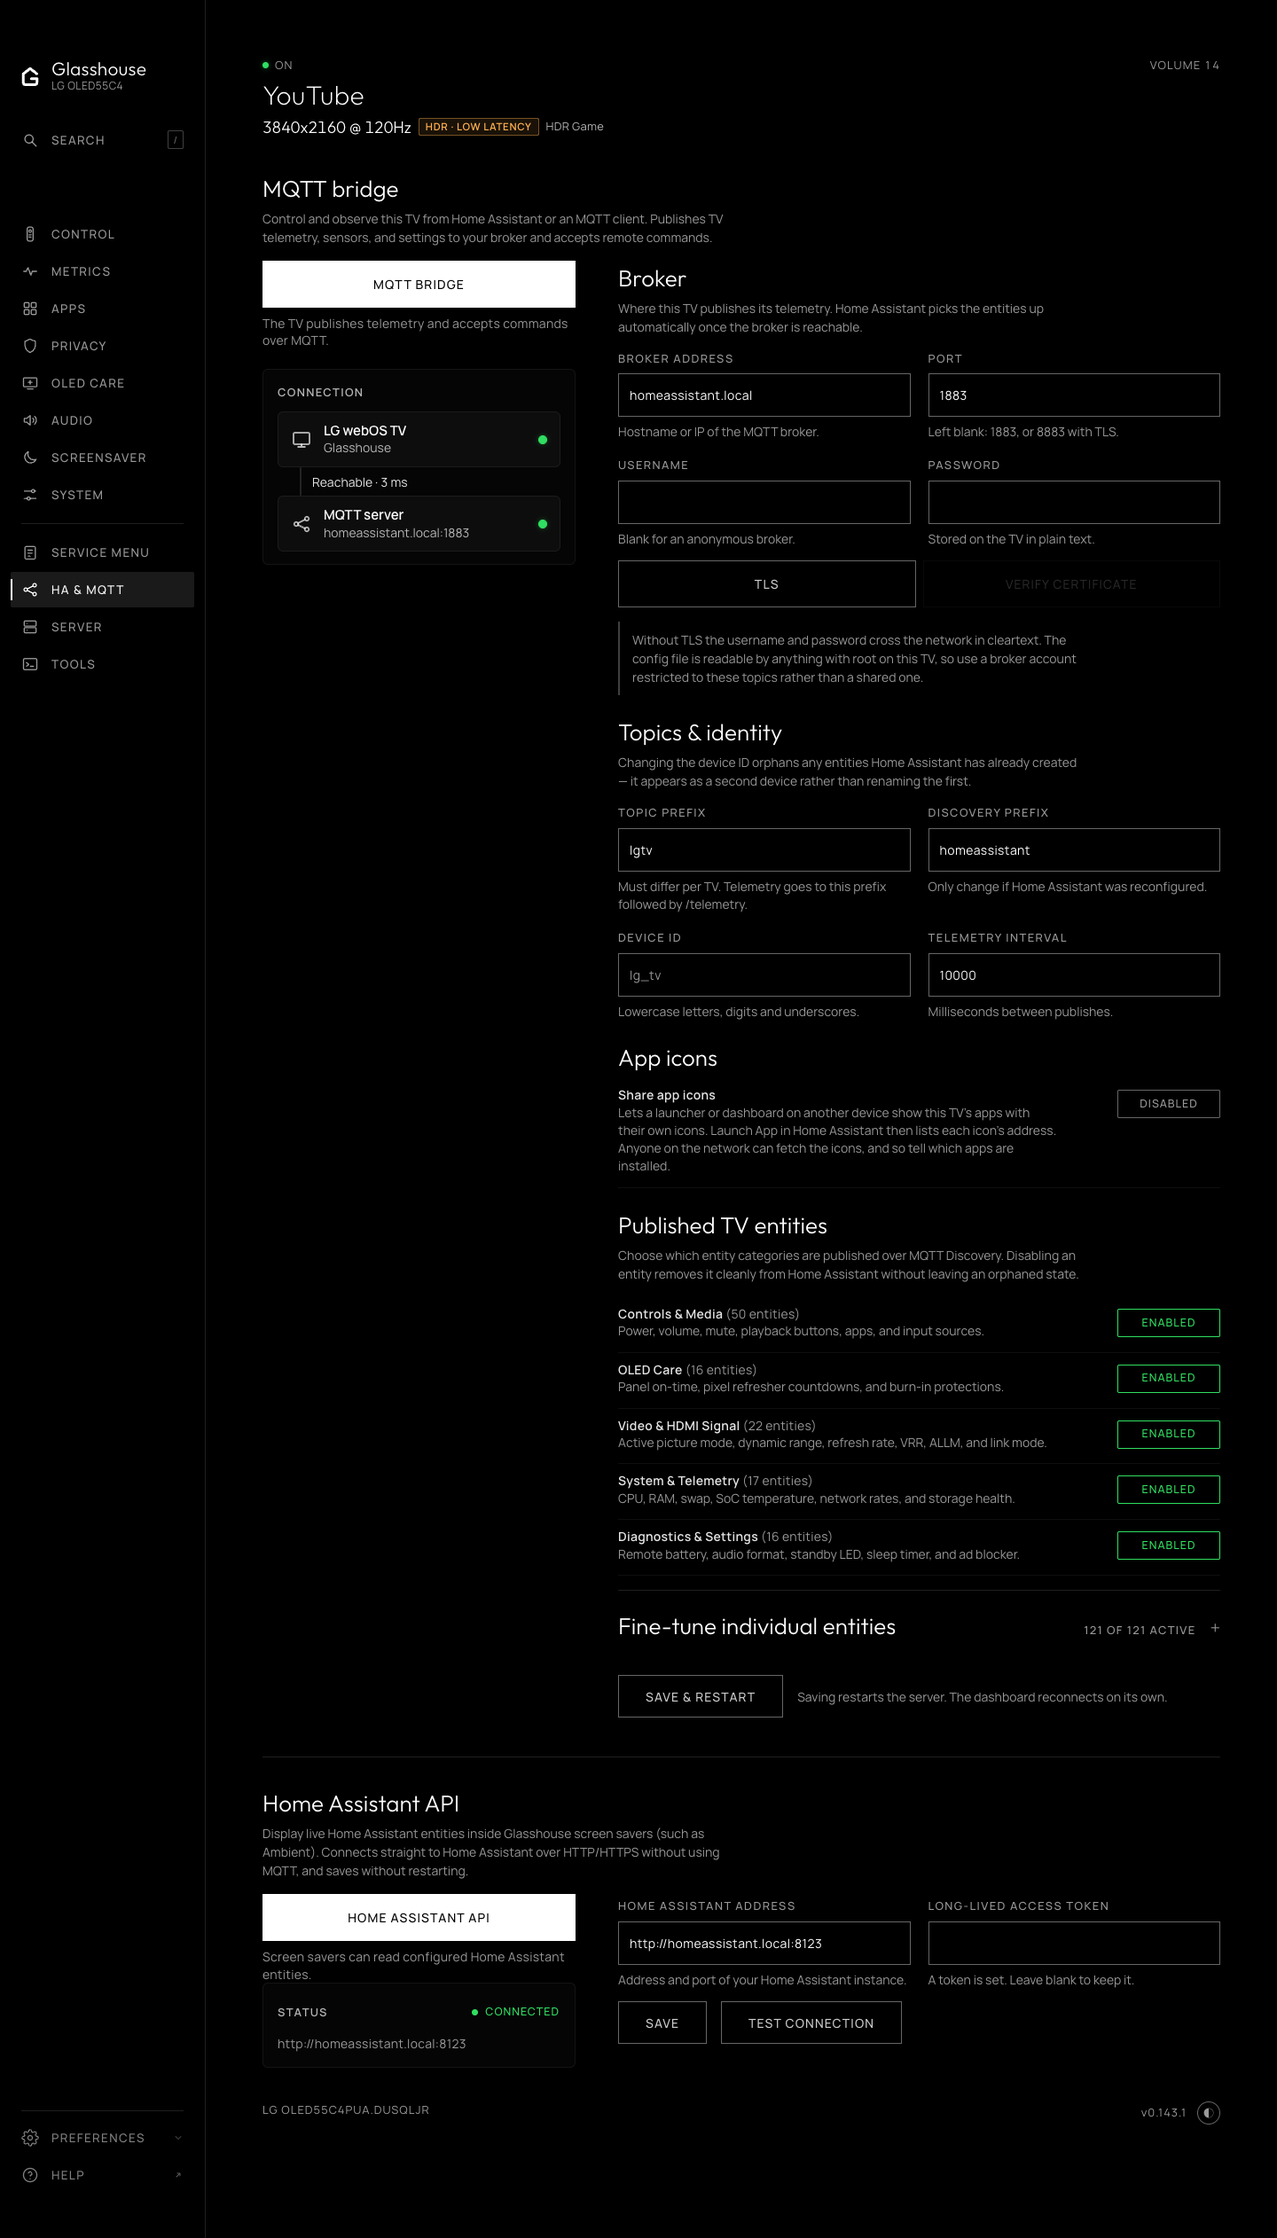
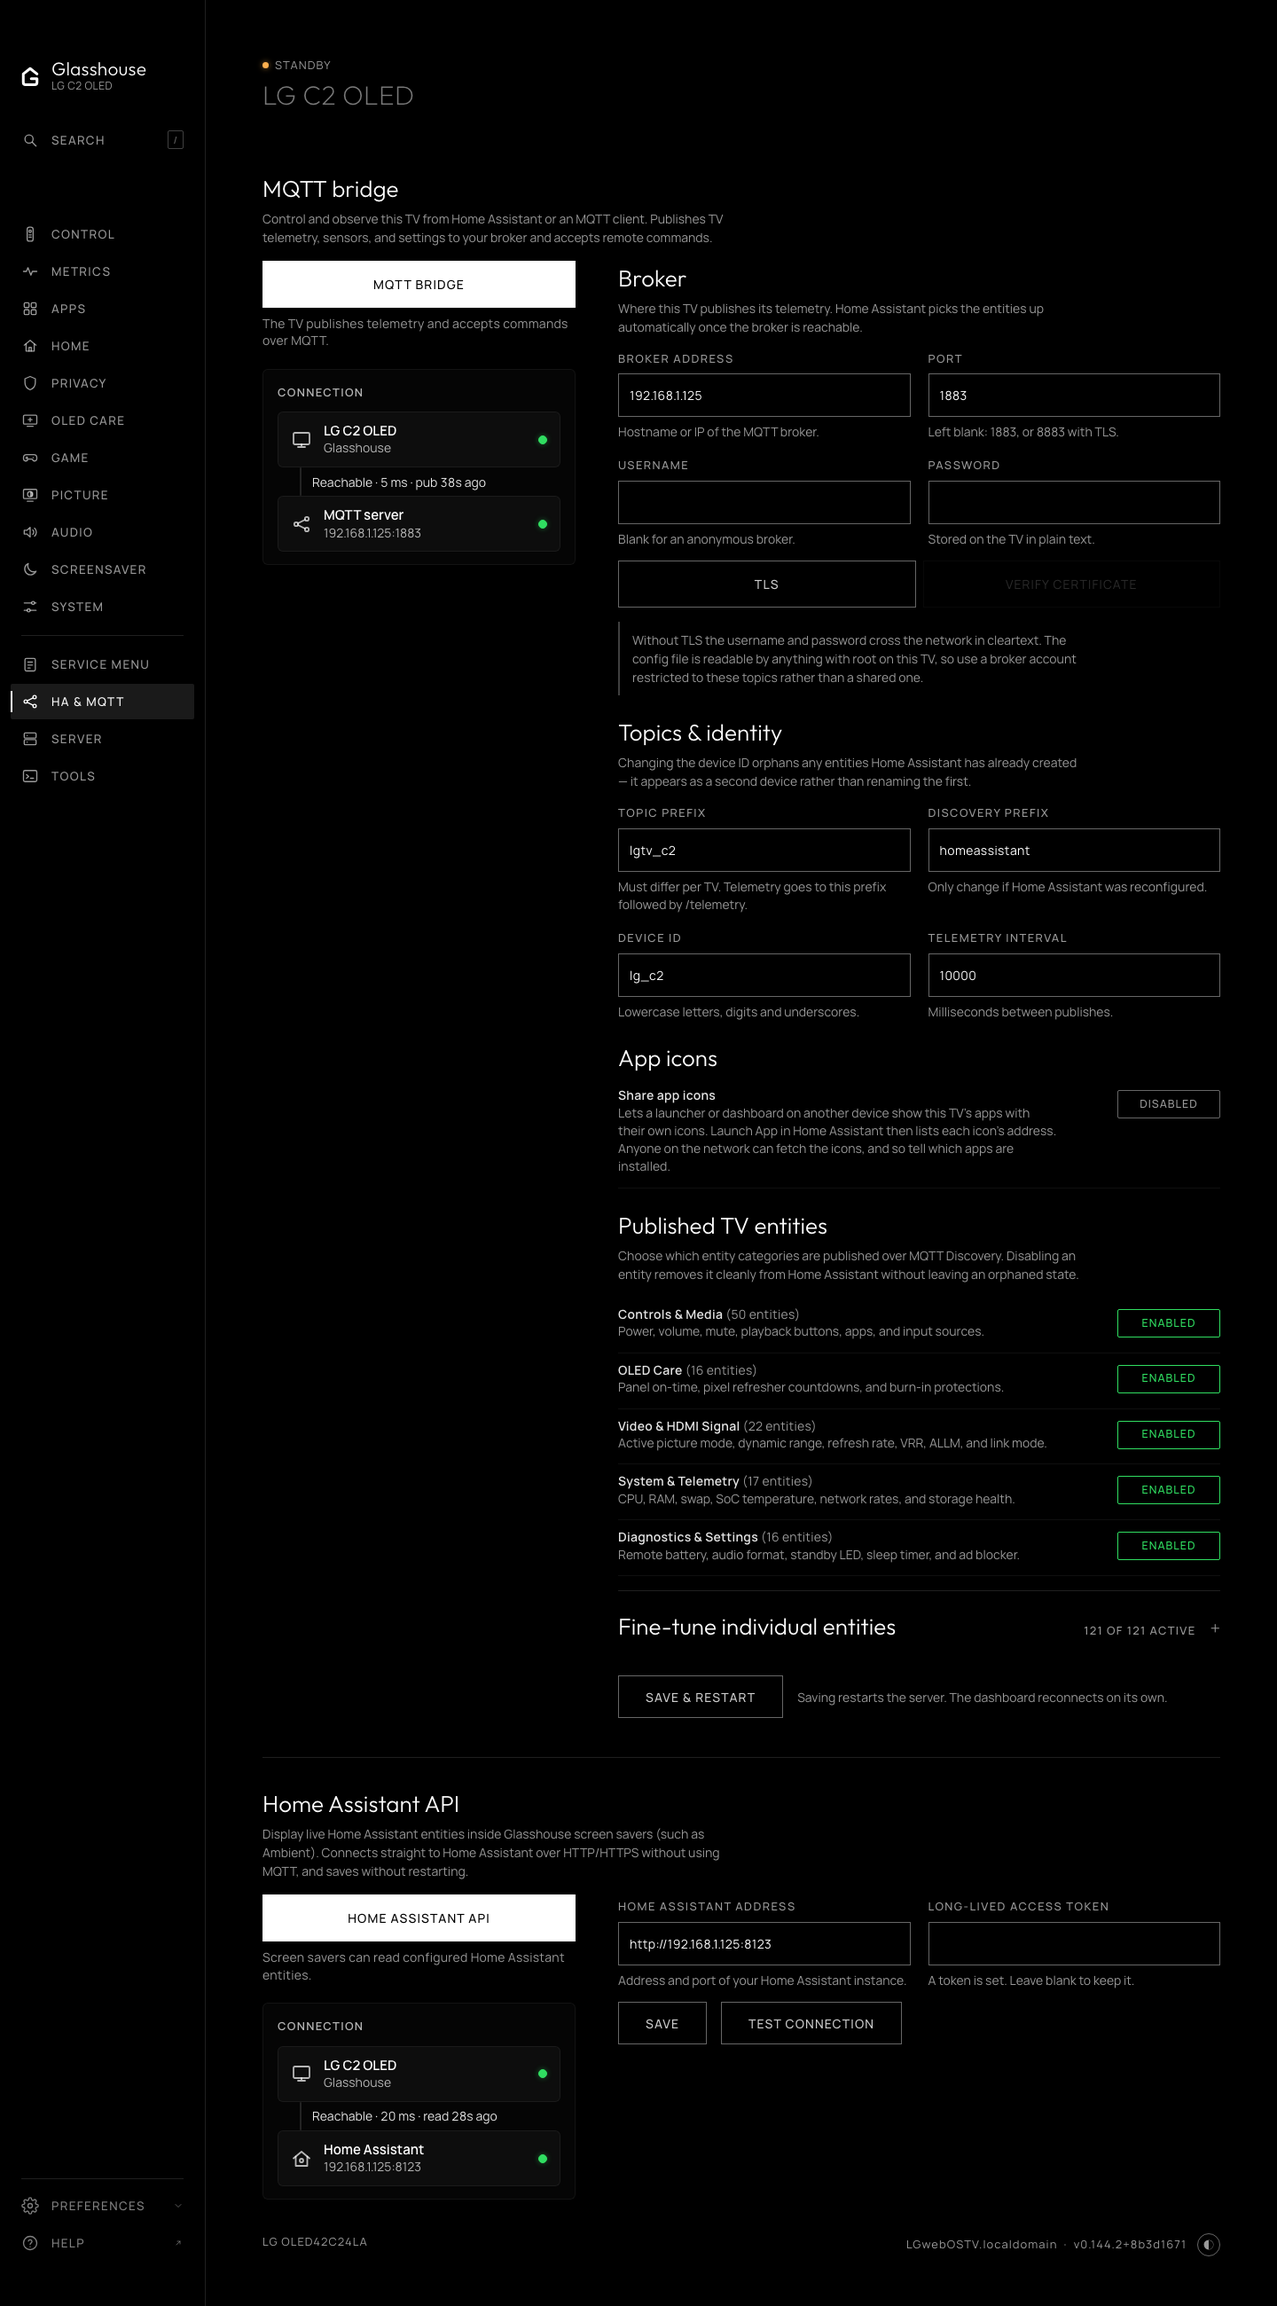
feat(ha): draw the Home Assistant API's connection as the MQTT bridge's is
The HA & MQTT tab showed the MQTT bridge as the TV linked to its broker,
with how the link last went, and the Home Assistant API as a status pill
and its address. The API now has the same Connection box: the TV, the link
reading Reachable with Home Assistant's response time and how long ago a
screen saver last read an entity, Off, Not set, or Unreachable with the
reason, and Home Assistant at its address, tagged HTTPS where it is. A
packet crosses the link on each new read. It refreshes with the MQTT box's
five-second poll, and its 22 px gap below the switch's note now matches.

The status carries latencyMs and lastReadMs for it. Three strings are new
and translated; the four the old box used are gone. The tab's two
screenshots are retaken on a C2.

diff --git a/server/assets/ui/mqtt.js b/server/assets/ui/mqtt.js
@@ -181,6 +181,7 @@ async function refreshCfgStatus() {
     const r = await fetch(api('/api/settings'), { cache: 'no-store' });
     const j = await r.json();
     if (j.ok && j.status) renderCfgStatus(j.status);
+    if (j.ok && j.homeAssistant && j.homeAssistant.status) renderHaStatus(j.homeAssistant.status);
   } catch (e) { /* a restart drops this; the next poll picks it up */ }
 }
 
@@ -510,45 +511,77 @@ async function toggleHaEnabled() {
   }
 }
 
+// The Home Assistant API's Connection box, drawn as the MQTT bridge's is: the
+// TV, the link with how it last went, and Home Assistant at its address.
+let haLastStatus = null;
+let haLastReadMs = null;
+
+function formatHaLinkMetric(st, statusObj) {
+  if (st === 'disabled') return { text: t('common.off', 'Off'), title: '' };
+  if (st === 'unconfigured') return { text: t('ha.notSet', 'Not set'), title: '' };
+  if (st === 'checking') return { text: t('ha.status.checking', 'Checking...'), title: '' };
+  if (st === 'connected') {
+    let metric = t('mqtt.net.reachable', 'Reachable');
+    if (statusObj && statusObj.latencyMs != null) metric += ' · ' + t('mqtt.net.latency', '{ms} ms', { ms: statusObj.latencyMs });
+    if (statusObj && statusObj.lastReadMs != null) metric += ' · ' + t('ha.net.readAge', 'read {age}', { age: cfgAge(statusObj.lastReadMs) });
+    return { text: metric, title: '' };
+  }
+  if (st === 'error') {
+    const detail = (statusObj && statusObj.error) || t('mqtt.state.error', 'Error');
+    return { text: t('mqtt.net.unreachable', 'Unreachable') + ': ' + detail, title: detail };
+  }
+  return { text: t('ha.savedStatus', 'Configured'), title: '' };
+}
+
+// A packet crosses the link each time a screen saver has read since the last poll.
+function updateHaReadPulse(st, statusObj) {
+  const readMs = statusObj && statusObj.lastReadMs;
+  if (st !== 'connected' || readMs == null) { haLastReadMs = readMs == null ? null : readMs; return; }
+  if (haLastReadMs === null || readMs < haLastReadMs) triggerMqttPacket('ha-packet-read');
+  haLastReadMs = readMs;
+}
+
 function renderHaStatus(statusObj) {
-  const pill = q('ha-api-pill');
-  const summary = q('ha-api-summary');
+  if (statusObj) haLastStatus = statusObj;
+  else statusObj = haLastStatus;
   const st = !cfgHaEnabled ? 'disabled'
     : !(cfgHaUrl && cfgHaTokenSet) ? 'unconfigured'
     : (statusObj && statusObj.state) || 'unknown';
-  if (pill) {
-    if (st === 'connected') {
-      pill.textContent = t('ha.status.connected', 'Connected');
-      pill.className = 'pill good';
-    } else if (st === 'error') {
-      pill.textContent = t('mqtt.state.error', 'Error');
-      pill.className = 'pill bad';
-    } else if (st === 'checking') {
-      pill.textContent = t('ha.status.checking', 'Checking...');
-      pill.className = 'pill warn';
-    } else if (st === 'disabled') {
-      pill.textContent = t('common.off', 'Off');
-      pill.className = 'pill idle';
-    } else if (st === 'unconfigured') {
-      pill.textContent = t('ha.notSet', 'Not set');
-      pill.className = 'pill idle';
-    } else {
-      pill.textContent = t('ha.savedStatus', 'Configured');
-      pill.className = 'pill idle';
-    }
+  const isOn = st !== 'disabled' && st !== 'unconfigured';
+
+  const netEl = q('ha-net');
+  if (netEl) {
+    netEl.classList.toggle('off', !isOn);
+    netEl.classList.toggle('error', st === 'error');
   }
-  if (summary) {
-    if (st === 'disabled') {
-      summary.textContent = cfgHaUrl
-        ? (cfgHaUrl + ' \u2014 ' + t('ha.summaryOff', 'Turned off. Switch on above to re-enable Home Assistant screen savers.'))
-        : t('ha.summaryOff', 'Turned off. Switch on above to re-enable Home Assistant screen savers.');
-    } else if (st === 'unconfigured') {
-      summary.textContent = t('ha.summaryEmpty', 'Screen savers cannot read Home Assistant entities until configured.');
-    } else if (st === 'error' && statusObj && statusObj.error) {
-      summary.textContent = (cfgHaUrl ? cfgHaUrl + ' \u2014 ' : '') + statusObj.error;
-    } else {
-      summary.textContent = cfgHaUrl || '';
-    }
+  const tvName = q('ha-node-tv-name');
+  if (tvName) tvName.textContent = (cfgDevice && cfgDevice.name) || 'LG webOS TV';
+  const tvDot = q('ha-dot-tv');
+  if (tvDot) tvDot.className = 'mqtt-dot ' + (isOn ? 'good' : 'idle');
+
+  const metric = formatHaLinkMetric(st, statusObj);
+  const metricEl = q('ha-net-metric');
+  if (metricEl) {
+    metricEl.textContent = metric.text;
+    metricEl.title = metric.title;
+  }
+  updateHaReadPulse(st, statusObj);
+
+  let address = cfgHaUrl;
+  try { if (cfgHaUrl) address = new URL(cfgHaUrl).host; } catch (e) { /* shown as typed */ }
+  const sub = q('ha-node-server-sub');
+  if (sub) {
+    sub.textContent = address || t('ha.net.noAddress', 'No address set');
+    sub.title = cfgHaUrl;
+  }
+  const tls = q('ha-node-server-tls');
+  if (tls) tls.hidden = !/^https:/i.test(cfgHaUrl);
+  const serverNode = q('ha-node-server');
+  if (serverNode) serverNode.title = st === 'error' ? metric.title : '';
+  const serverDot = q('ha-dot-server');
+  if (serverDot) {
+    const dot = st === 'connected' ? 'good' : st === 'error' ? 'bad' : st === 'checking' ? 'warn' : 'idle';
+    serverDot.className = 'mqtt-dot ' + dot;
   }
 }
 

diff --git a/server/lib/haentity.js b/server/lib/haentity.js
@@ -21,6 +21,10 @@ var MAX_LIST_BYTES = 8 * 1024 * 1024;
 
 var cfg = { enabled: true, url: '', token: '' };
 var lastStatus = { ok: null, message: '', error: '', checkedAt: 0 };
+// For the HA & MQTT tab's Connection box, as the MQTT one shows its broker:
+// how long Home Assistant last took to answer, and when a screen saver last read.
+var lastLatencyMs = null;
+var lastReadAt = 0;
 
 function init(opts) {
   opts = opts || {};
@@ -31,6 +35,8 @@ function init(opts) {
     token: typeof ha.token === 'string' ? ha.token : ''
   };
   lastStatus = { ok: null, message: '', error: '', checkedAt: 0 };
+  lastLatencyMs = null;
+  lastReadAt = 0;
 }
 
 function hasCredentials() {
@@ -51,6 +57,7 @@ function requestHaJson(targetUrl, token, opts, cb) {
   var parsed = url.parse(targetUrl);
   var lib = parsed.protocol === 'https:' ? https : http;
   var answered = false;
+  var startedAt = Date.now();
 
   function fail(error, tooLarge) {
     if (answered) return;
@@ -98,7 +105,7 @@ function requestHaJson(targetUrl, token, opts, cb) {
         return fail(label + ' did not answer JSON');
       }
       answered = true;
-      cb({ ok: true, body: body });
+      cb({ ok: true, body: body, ms: Date.now() - startedAt });
     });
   });
 
@@ -140,6 +147,8 @@ function read(entityId, cb) {
       return cb(r);
     }
     lastStatus = { ok: true, message: lastStatus.message || 'Connected to Home Assistant', error: '', checkedAt: Date.now() };
+    lastLatencyMs = r.ms;
+    lastReadAt = Date.now();
     var body = r.body;
     if (!body || typeof body.state !== 'string') return cb({ ok: false, error: entityId + ' has no state' });
     cb({
@@ -158,6 +167,8 @@ function update(ha) {
   if (typeof ha.url === 'string') cfg.url = ha.url.replace(/\/+$/, '');
   if (typeof ha.token === 'string') cfg.token = ha.token;
   lastStatus = { ok: null, message: '', error: '', checkedAt: 0 };
+  lastLatencyMs = null;
+  lastReadAt = 0;
 }
 
 function test(opts, cb) {
@@ -189,6 +200,7 @@ function test(opts, cb) {
     var okMsg = (body && body.message) || 'Connected to Home Assistant';
     if (cfg.enabled && testUrl === cfg.url) {
       lastStatus = { ok: true, message: okMsg, error: '', checkedAt: Date.now() };
+      lastLatencyMs = r.ms;
     }
     cb({ ok: true, message: okMsg });
   });
@@ -207,7 +219,10 @@ function status() {
     state: st,
     error: lastStatus.error || '',
     message: lastStatus.message || '',
-    checkedAt: lastStatus.checkedAt || null
+    checkedAt: lastStatus.checkedAt || null,
+    latencyMs: st === 'connected' ? lastLatencyMs : null,
+    // How long ago a screen saver last read an entity, as the MQTT box's last publish.
+    lastReadMs: lastReadAt ? Date.now() - lastReadAt : null
   };
 }
 
@@ -234,6 +249,7 @@ function list(cb) {
       return cb({ ok: false, error: 'Home Assistant did not return an entity list' });
     }
     lastStatus = { ok: true, message: lastStatus.message || 'API running.', error: '', checkedAt: Date.now() };
+    lastLatencyMs = r.ms;
     var out = [];
     for (var i = 0; i < r.body.length; i++) {
       var item = r.body[i];

diff --git a/server/assets/ui.html b/server/assets/ui.html
@@ -1802,12 +1802,47 @@
         </div>
         <div class="sub" id="cfg-ha-enabled-note" style="margin-top:8px"></div>
 
-        <div class="ha-status-box">
+        <div class="mqtt-net" id="ha-net">
           <div class="mqtt-net-header">
-            <span class="mqtt-net-title" data-t="ha.statusTitle">Status</span>
-            <span class="pill idle" id="ha-api-pill">&mdash;</span>
+            <span class="mqtt-net-title" data-t="mqtt.net.title">Connection</span>
           </div>
-          <div class="sub" id="ha-api-summary" style="margin-top:10px">&mdash;</div>
+
+          <div class="mqtt-net-flow">
+            <div class="mqtt-net-node">
+              <div class="mqtt-net-ico" aria-hidden="true">
+                <svg viewBox="0 0 24 24"><rect x="3" y="4" width="18" height="13" rx="1.5"/><path d="M8 20h8M12 17v3"/></svg>
+              </div>
+              <div class="mqtt-net-body">
+                <div class="mqtt-net-name" id="ha-node-tv-name">&mdash;</div>
+                <div class="mqtt-net-sub" translate="no">Glasshouse</div>
+              </div>
+              <div class="mqtt-net-state">
+                <span class="mqtt-dot good" id="ha-dot-tv"></span>
+              </div>
+            </div>
+
+            <div class="mqtt-net-link">
+              <div class="mqtt-net-track">
+                <div class="mqtt-packet" id="ha-packet-read"></div>
+              </div>
+              <div class="mqtt-net-meta">
+                <span class="mqtt-net-metric" id="ha-net-metric">&mdash;</span>
+              </div>
+            </div>
+
+            <div class="mqtt-net-node" id="ha-node-server">
+              <div class="mqtt-net-ico" aria-hidden="true">
+                <svg viewBox="0 0 24 24"><path d="M3 11.5L12 4l9 7.5"/><path d="M5.5 9.5V20h13V9.5"/><circle cx="12" cy="14" r="2"/></svg>
+              </div>
+              <div class="mqtt-net-body">
+                <div class="mqtt-net-name" data-t="ha.net.server">Home Assistant</div>
+                <div class="mqtt-net-sub"><span id="ha-node-server-sub">&mdash;</span><span class="mqtt-tls-tag" id="ha-node-server-tls" hidden translate="no">HTTPS</span></div>
+              </div>
+              <div class="mqtt-net-state">
+                <span class="mqtt-dot idle" id="ha-dot-server"></span>
+              </div>
+            </div>
+          </div>
         </div>
       </div>
 

diff --git a/test/test-haentity.js b/test/test-haentity.js
@@ -172,15 +172,23 @@ server.listen(0, '127.0.0.1', function () {
                           haEntity.update({ enabled: true });
                           assert.strictEqual(haEntity.configured(), true);
                           assert.strictEqual(haEntity.status().state, 'unknown');
+                          assert.strictEqual(haEntity.status().latencyMs, null, 'no response time before an answer');
+                          assert.strictEqual(haEntity.status().lastReadMs, null, 'no read yet since the update');
                           haEntity.read('sensor.outdoor_temperature', function (rOn) {
                             assert.strictEqual(rOn.ok, true);
-                            assert.strictEqual(haEntity.status().state, 'connected');
+                            var onStatus = haEntity.status();
+                            assert.strictEqual(onStatus.state, 'connected');
+                            assert.ok(typeof onStatus.latencyMs === 'number' && onStatus.latencyMs >= 0, 'the read\'s response time');
+                            assert.ok(typeof onStatus.lastReadMs === 'number' && onStatus.lastReadMs < 1000, 'a read just now');
 
                             // Missing single entity (404) does not poison connection health
                             haEntity.read('sensor.missing', function (r404) {
                               assert.strictEqual(r404.ok, false);
                               assert.strictEqual(haEntity.status().state, 'connected');
                               console.log('  \u2713 enabled toggle preserves credentials and status() tracks connectivity');
+                              haEntity.update({ enabled: false });
+                              assert.strictEqual(haEntity.status().latencyMs, null, 'switched off, no response time is shown');
+                              console.log('  \u2713 status() carries the response time and the last read for the Connection box');
 
                               server.close();
                               console.log('ALL test-haentity.js assertions passed!');

diff --git a/server/assets/ui/ui.css b/server/assets/ui/ui.css
@@ -1108,8 +1108,6 @@ button.pill.flash.idle[disabled]:hover{color:var(--w60);border-color:var(--edge)
 .mqtt-net{max-width:380px;margin-top:22px;border:1px solid var(--w06);
   background:rgba(var(--fg),.02);border-radius:6px;padding:16px 16px 14px}
 .ha-api-section{border-top:1px solid var(--w12);margin-top:44px;padding-top:32px}
-.ha-status-box{max-width:380px;border:1px solid var(--w06);background:rgba(var(--fg),.02);border-radius:6px;padding:16px}
-.ha-status-box .mqtt-net-header{margin-bottom:0;justify-content:space-between}
 .mqtt-net.off .mqtt-net-node{opacity:.6}
 .mqtt-net.off .mqtt-net-link{opacity:.4}
 .mqtt-net.off .mqtt-dot{background:var(--w20)!important;border-color:var(--edge)!important;box-shadow:none!important}

diff --git a/docs/HOME-ASSISTANT.md b/docs/HOME-ASSISTANT.md
@@ -132,9 +132,9 @@ Node-RED, Telegraf into InfluxDB, or scripts subscribing to that topic work the 
 1. In Home Assistant, open your profile (bottom-left) → **Security** → **Long-Lived Access Tokens** → **Create Token** and copy the token.
 2. Open Glasshouse in a browser and navigate to **HA & MQTT** → **Home Assistant API**.
 3. Enter your **Home Assistant address** (for example `http://192.168.1.10:8123` or `http://homeassistant.local:8123`) and paste the **Long-Lived Access Token** (or set `homeAssistant.url` and `homeAssistant.token` in `config.json`).
-4. Click **Save** — credentials apply immediately without restarting the server — and Glasshouse checks the connection to update the status badge (`Connected`, `Off`, or any error). You can switch the **Home Assistant API** button off at any time to disable Home Assistant screen savers while keeping your saved address and token.
+4. Click **Save** — credentials apply immediately without restarting the server — and Glasshouse checks the connection. The **Connection** box beside the settings draws the TV and Home Assistant as the MQTT bridge's box draws the TV and its broker: the link reads **Reachable** with Home Assistant's response time and how long ago a screen saver last read an entity, **Off**, or **Unreachable** with the reason. You can switch the **Home Assistant API** button off at any time to disable Home Assistant screen savers while keeping your saved address and token.
 
-![Home Assistant API settings showing toggle, address, token saved, and Connected status](screenshots/ha-api.png)
+![Home Assistant API settings showing the toggle, address, saved token, and the Connection box with Home Assistant reachable](screenshots/ha-api.png)
 
 Once enabled and connected, two Home Assistant screen savers unlock on the **Screensaver** tab (while off or unconfigured, both stay greyed out so non-Home-Assistant setups cannot pick them by mistake):
 
